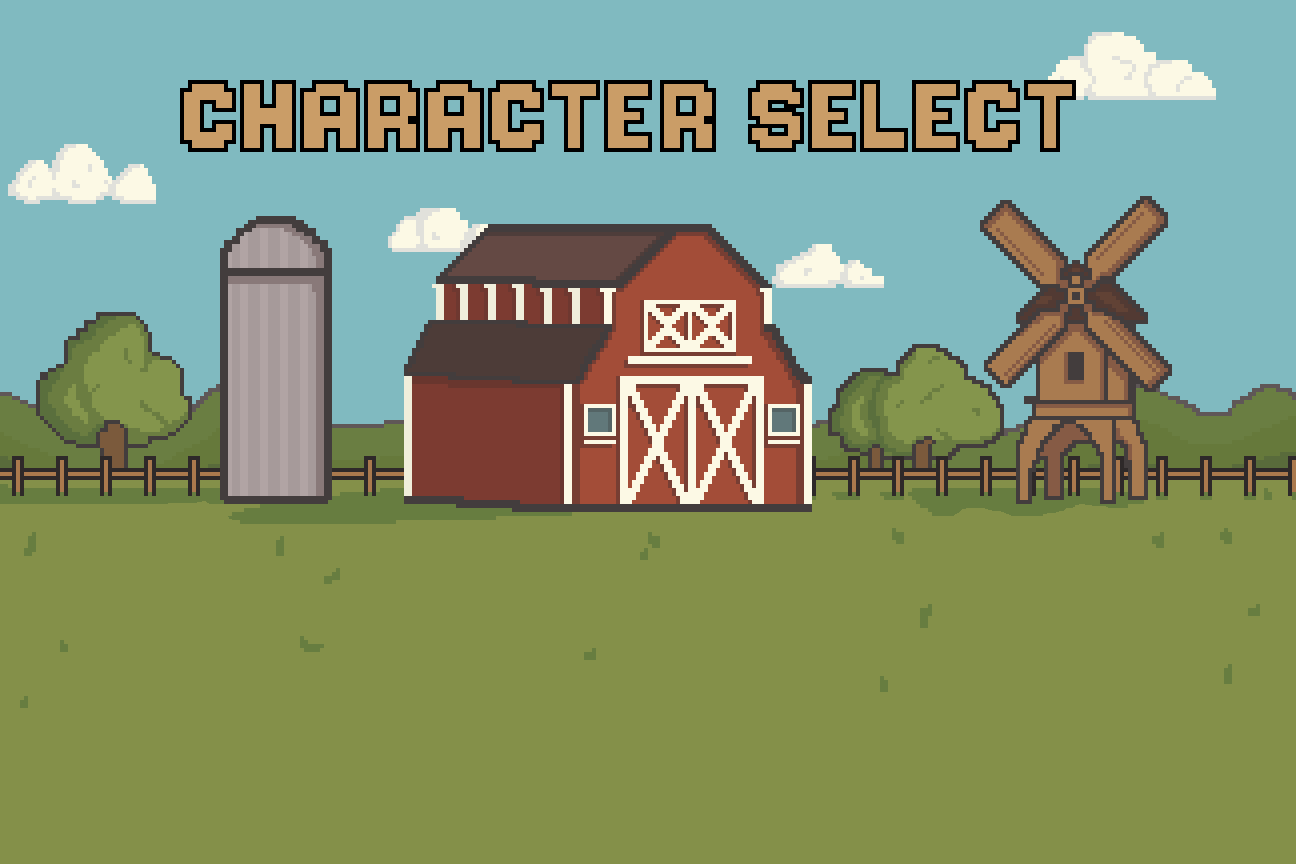
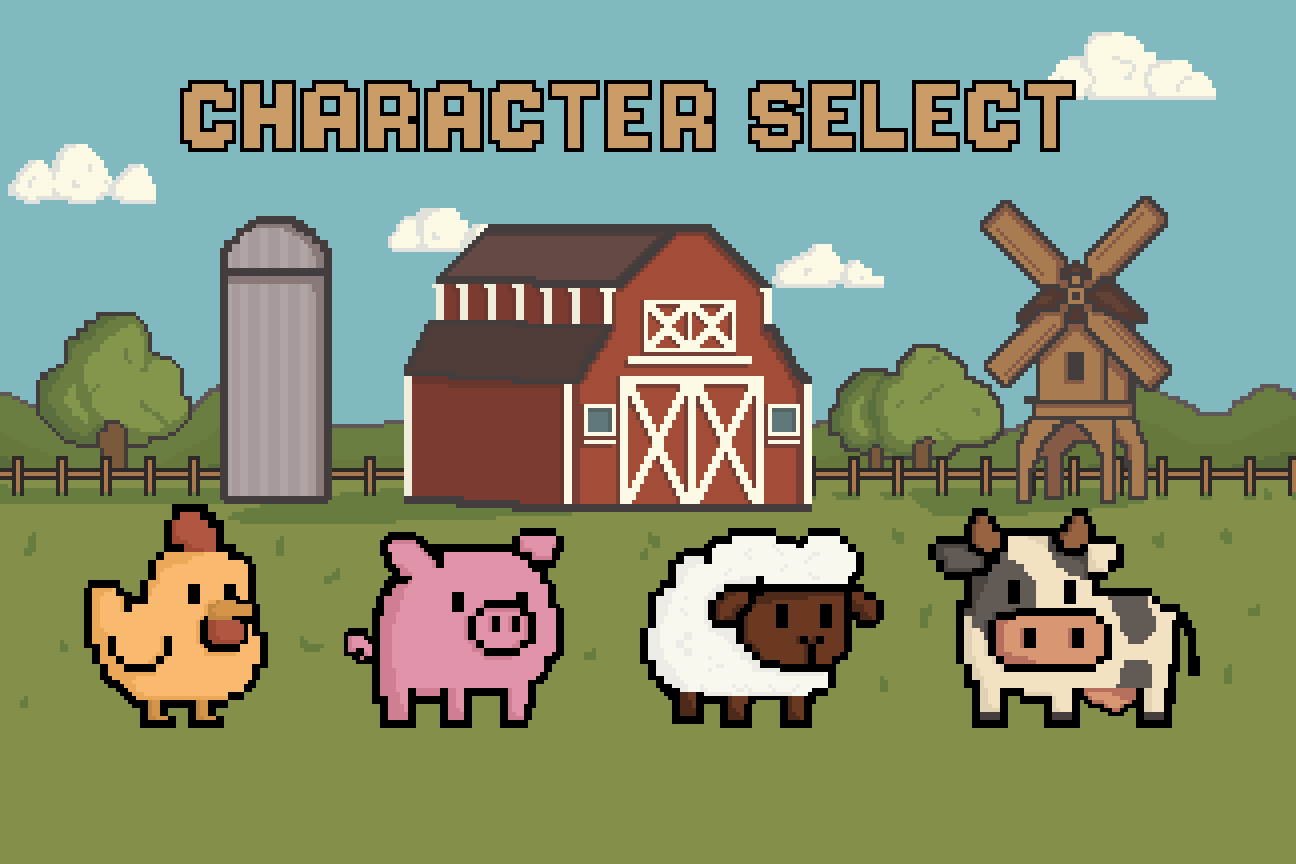
selection screen change

diff --git a/src/client/ui_manager.cpp b/src/client/ui_manager.cpp
@@ -24,19 +24,19 @@ void UIManager::makeMenus() {
                                "../resources/ui/CharacterSelection.png",
                                nullptr, false, false);
   chickenButton =
-      createUIElement(-0.6f, -0.8f, 0.4f, 0.4f, 0, AnimationInfo(1, 3, 0.1f),
+      createUIElement(-0.75f, -0.8f, 0.4f, 0.4f, 0, AnimationInfo(1, 3, 0.1f),
                       "../resources/ui/ChickenButton.png",
                       "../resources/ui/ChickenButtonHover.png", true, true);
   pigButton =
-      createUIElement(-0.2f, -0.8f, 0.4f, 0.4f, 0, AnimationInfo(1, 3, 0.1f),
+      createUIElement(-0.3f, -0.8f, 0.4f, 0.4f, 0, AnimationInfo(1, 3, 0.1f),
                       "../resources/ui/PigButton.png",
                       "../resources/ui/PigButtonHover.png", true, true);
   sheepButton =
-      createUIElement(0.2f, -0.8f, 0.4f, 0.4f, 0, AnimationInfo(1, 3, 0.1f),
+      createUIElement(0.17f, -0.8f, 0.4f, 0.4f, 0, AnimationInfo(1, 3, 0.1f),
                       "../resources/ui/SheepButton.png",
                       "../resources/ui/SheepButtonHover.png", true, true);
   cowButton =
-      createUIElement(0.6f, -0.8f, 0.4f, 0.4f, 0, AnimationInfo(1, 3, 0.1f),
+      createUIElement(0.65f, -0.8f, 0.4f, 0.4f, 0, AnimationInfo(1, 3, 0.1f),
                       "../resources/ui/CowButton.png",
                       "../resources/ui/CowButtonHover.png", true, true);
   characterButtons = {chickenButton.get(), pigButton.get(), sheepButton.get(),
